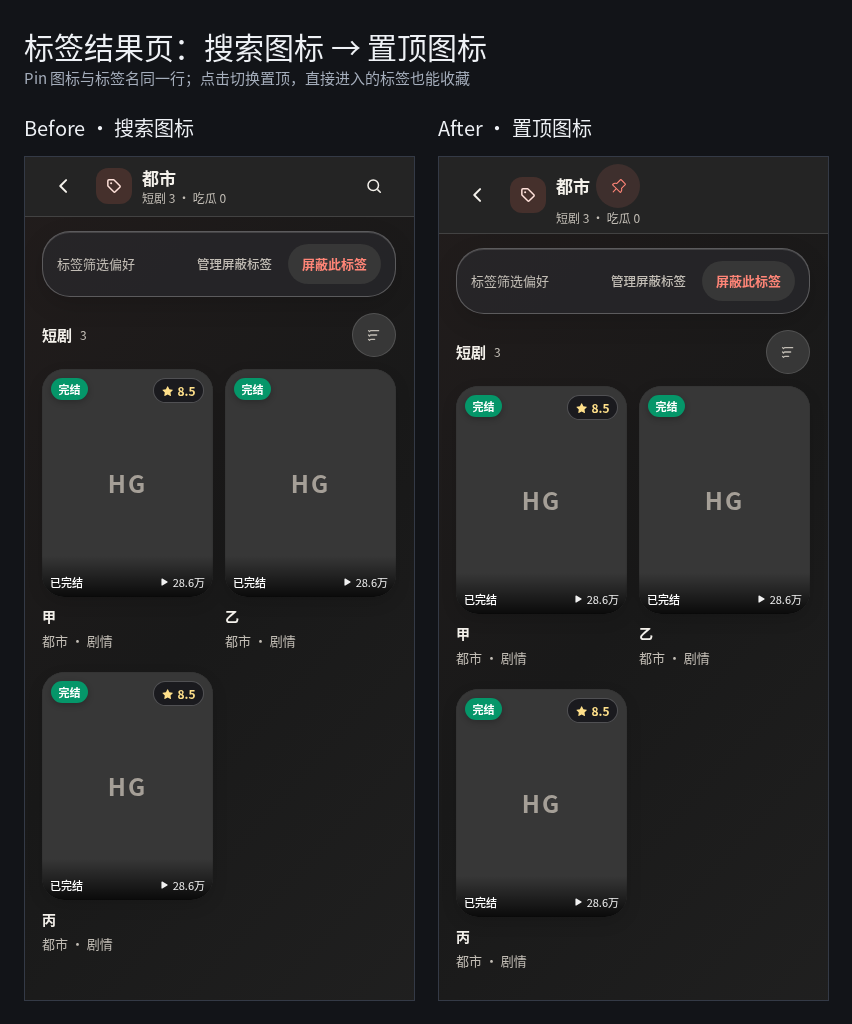
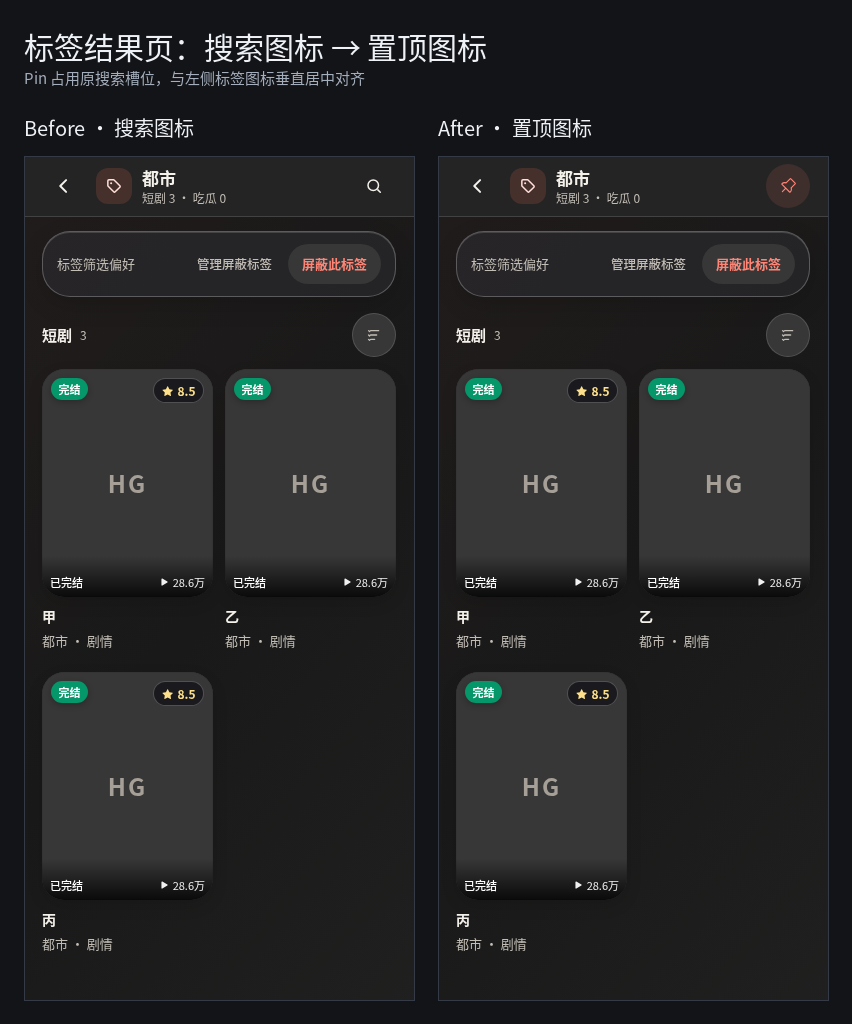
fix(tags): align the tag page pin with the header trailing slot

diff --git a/src/features/discover/Discover.tsx b/src/features/discover/Discover.tsx
@@ -664,15 +664,13 @@ export function TagPage({ tag, name, onBack, wide }: { tag: string; name: string
           <Button aria-label={tr("返回")} onClick={onBack} className="ios-nav-btn"><IBack size={20} /></Button>
           <span className="w-9 h-9 rounded-[12px] bg-pc text-on-pc flex items-center justify-center shrink-0"><TagIcon size={18} /></span>
           <div className="flex-1 min-w-0">
-            <div className="flex items-center gap-1.5 min-w-0">
-              <h1 className="min-w-0 text-[17px] font-bold text-on leading-tight truncate" title={name}>{name}</h1>
-              <Button onClick={togglePin} aria-pressed={tagPinned} aria-label={tagPinned ? tr("取消置顶此标签") : tr("置顶此标签")}
-                title={tagPinned ? tr("取消置顶此标签") : tr("置顶此标签")} className="tag-page-pin">
-                <IPinF size={17} />
-              </Button>
-            </div>
+            <h1 className="text-[17px] font-bold text-on leading-tight truncate" title={name}>{name}</h1>
             <div role="status" className="text-[12px] text-mut leading-tight mt-0.5 tabular-nums">{tr("短剧 {0} · 吃瓜 {1}", currentVideos ? videoTotal : 0, currentPosts ? postTotal : 0)}</div>
           </div>
+          <Button onClick={togglePin} aria-pressed={tagPinned} aria-label={tagPinned ? tr("取消置顶此标签") : tr("置顶此标签")}
+            title={tagPinned ? tr("取消置顶此标签") : tr("置顶此标签")} className="tag-page-pin">
+            <IPinF size={18} />
+          </Button>
         </div>
       </div>
       <div ref={scrollContainer} className="flex-1 scroll-y pt-3.5 pb-8" aria-busy={videoLoading || postLoading || !currentVideos || !currentPosts}>

diff --git a/src/styles/ios.css b/src/styles/ios.css
@@ -509,7 +509,7 @@ html.theme-light {
 .tag-pin-pill[data-pressing="true"] { scale:.96; border-color:var(--p-primary); }
 .tag-pin-pill[data-pinned="true"] { border-color:var(--p-primary); background:color-mix(in srgb, var(--p-primary) 10%, var(--p-s3)); }
 .tag-pin-mark { flex:none; color:var(--p-primary); }
-.tag-page-pin.ios-button { display:inline-flex; align-items:center; justify-content:center; width:30px; height:30px; min-width:30px; min-height:30px; padding:0; flex:none; border-radius:50%; background:transparent; color:var(--p-mut); }
+.tag-page-pin.ios-button { display:inline-flex; align-items:center; justify-content:center; width:36px; height:36px; min-width:36px; min-height:36px; padding:0; flex:none; border-radius:50%; background:transparent; color:var(--p-mut); }
 .tag-page-pin.ios-button[aria-pressed="true"] { color:var(--p-accent); background:color-mix(in srgb, var(--p-accent) 12%, transparent); }
 .tag-page-pin.ios-button:active { scale:.92; }
 .ios-sort-control { position:relative; display:inline-flex; flex:none; }
